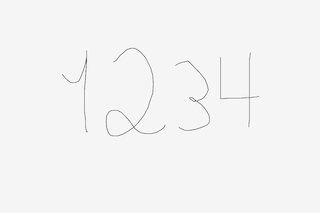
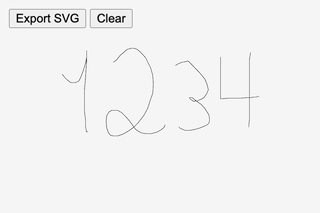
Updated examples to p5 1.11.9; made Drawing Recorder example mobile-friendly

Changed region(s): [[0.0312, 0.0282, 0.4062, 0.1408]]

diff --git a/examples/plotSvg_drawing_recorder/sketch.js b/examples/plotSvg_drawing_recorder/sketch.js
@@ -1,27 +1,35 @@
-// https://github.com/golanlevin/p5.plotSvg (v.0.1.x)
+// This sketch records a series of marks drawn by the user
+// and exports an SVG file when the button is pressed.
+// This sketch is mobile-friendly.
+//
+// Uses https://github.com/golanlevin/p5.plotSvg (v.0.1.x)
 // A Plotter-Oriented SVG Exporter for p5.js
 // Golan Levin, November 2024
-//
-// This sketch records a series of marks drawn by the user
-// and exports an SVG file when the 's' key is pressed.
-// 
-// Requires: https://cdn.jsdelivr.net/npm/p5.plotsvg@latest/lib/p5.plotSvg.js
-// See: https://github.com/golanlevin/p5.plotSvg
 
 p5.disableFriendlyErrors = true; 
+let exportSvgButton;
+let clearButton;
 let bDoExportSvg = false; 
-
 let marks = [];
 let currentMark = []; 
 
 function setup() {
-  // Postcard size: 6"x4" at 96 dpi
-  createCanvas(576, 384);
+  createCanvas(375, 500); // phone-safe size
+  exportSvgButton = createButton('Export SVG');
+  exportSvgButton.position(10, 10);
+  exportSvgButton.mousePressed(() => bDoExportSvg = true);
+  clearButton = createButton('Clear');
+  clearButton.position(100, 10);
+  clearButton.mousePressed(() => {
+    marks = [];
+    currentMark = [];
+  });
 }
 
+//-------------------------------------
 function keyPressed(){
   if (key == 's'){
-    // Initiate SVG exporting
+    // Another way to initiate SVG exporting
     bDoExportSvg = true; 
   } else if (key == ' '){
     // Clear recordings with spacebar
@@ -30,6 +38,7 @@ function keyPressed(){
   }
 }
 
+//-------------------------------------
 function mousePressed(){
   currentMark = [];
   currentMark.push(createVector(mouseX, mouseY)); 
@@ -42,7 +51,26 @@ function mouseReleased(){
     marks.push(currentMark); 
   }
 }
+function touchStarted(event) {
+  if (event.target.tagName === 'CANVAS') {
+    mousePressed();
+    return false;
+  }
+}
+function touchMoved(event) {
+  if (event.target.tagName === 'CANVAS') {
+    mouseDragged();
+    return false;
+  }
+}
+function touchEnded(event) {
+  if (event.target.tagName === 'CANVAS') {
+    mouseReleased();
+    return false;
+  }
+}
 
+//-------------------------------------
 function draw(){
   background(245); 
   strokeWeight(1);
@@ -50,8 +78,8 @@ function draw(){
   noFill();
   
   if (bDoExportSvg){
-    // Begin exporting, if requested
-    beginRecordSVG(this, "plotSvg_drawing_recorder.svg");
+    let svgFilename = "plotSvg_recording_" + frameCount; 
+    beginRecordSVG(this, svgFilename + ".svg");
   }
 
   // Draw each of the stored marks
@@ -69,7 +97,6 @@ function draw(){
   }
   endShape(); 
 
-  
   if (bDoExportSvg){
     // End exporting, if doing so
     endRecordSVG();

diff --git a/examples/plotSvg_drawing_recorder/index.html b/examples/plotSvg_drawing_recorder/index.html
@@ -1,17 +1,32 @@
 <!DOCTYPE html>
 <html lang="en">
-  <head>
-    <meta charset="utf-8" />
-    <title>p5.plotSvg Drawing Recorder Example</title>
-    <meta name="description" content="p5.plotSvg Drawing Recorder Example" />
-    <script src="https://cdnjs.cloudflare.com/ajax/libs/p5.js/1.11.8/p5.js" type="text/javascript"></script>
-    <script src="../../lib/p5.plotSvg.js" type="text/javascript"></script>
-    <style> body {padding: 0; margin: 0;} canvas {vertical-align: top;} </style>
-  </head>
-  <body>
-    <main>
-    </main>
-    <script src="sketch.js" type="text/javascript"></script>
-    <p>Draw some marks. Press 's' to save SVG.</p>
-  </body>
+<head>
+  <meta charset="utf-8" />
+  <meta name="viewport" content="width=device-width, initial-scale=1.0, user-scalable=no, maximum-scale=1.0">
+
+  <script src="https://cdn.jsdelivr.net/npm/p5@1.11.9/lib/p5.js"></script>
+  <script src="../../lib/p5.plotSvg.js" type="text/javascript"></script>
+  <link rel="stylesheet" type="text/css" href="style.css">
+
+  <style> 
+    html, body {
+      margin: 0;
+      padding: 0;
+      overflow: hidden; /* Prevent scrolling */
+      touch-action: none; /* Prevent touch scrolling */
+      -webkit-user-select: none; /* Prevent selection on iOS */
+      -ms-user-select: none; /* Prevent selection on IE */
+      user-select: none; /* Prevent selection on other browsers */
+    }
+    canvas {
+      display: block;
+      touch-action: none; /* Prevent default gestures on canvas */
+    }
+  </style>
+</head>
+
+<body class="prevent-select">
+  <main></main>
+  <script src="sketch.js"></script>
+</body>
 </html>

diff --git a/examples/plotSvg_hello_animating/index.html b/examples/plotSvg_hello_animating/index.html
@@ -4,7 +4,7 @@
     <meta charset="utf-8" />
     <title>p5.plotSvg Hello Animating Example</title>
     <meta name="description" content="p5.plotSvg Hello Animating Example" />
-    <script src="https://cdnjs.cloudflare.com/ajax/libs/p5.js/1.11.8/p5.js" type="text/javascript"></script>
+    <script src="https://cdnjs.cloudflare.com/ajax/libs/p5.js/1.11.9/p5.js" type="text/javascript"></script>
     <script src="../../lib/p5.plotSvg.js" type="text/javascript"></script>
     <style> body {padding: 0; margin: 0;} canvas {vertical-align: top;} </style>
   </head>

diff --git a/examples/plotSvg_face_flipbook/index.html b/examples/plotSvg_face_flipbook/index.html
@@ -4,7 +4,7 @@
     <meta charset="utf-8" />
     <title>p5.plotSvg Drawing Recorder Example</title>
     <meta name="description" content="p5.plotSvg Face Flipbook Example" />
-    <script src="https://cdnjs.cloudflare.com/ajax/libs/p5.js/1.11.8/p5.js" type="text/javascript"></script>
+    <script src="https://cdnjs.cloudflare.com/ajax/libs/p5.js/1.11.9/p5.js" type="text/javascript"></script>
     <script src="../../lib/p5.plotSvg.js" type="text/javascript"></script>
     <style> body {padding: 0; margin: 0;} canvas {vertical-align: top;} </style>
   </head>

diff --git a/examples/plotSvg_generative/index.html b/examples/plotSvg_generative/index.html
@@ -4,7 +4,7 @@
     <meta charset="utf-8" />
     <title>p5.plotSvg Generative Art Example</title>
     <meta name="description" content="p5.plotSvg Generative Art Example" />
-    <script src="https://cdnjs.cloudflare.com/ajax/libs/p5.js/1.11.8/p5.js" type="text/javascript"></script>
+    <script src="https://cdnjs.cloudflare.com/ajax/libs/p5.js/1.11.9/p5.js" type="text/javascript"></script>
     <script src="../../lib/p5.plotSvg.js" type="text/javascript"></script>
     <style> body {padding: 0; margin: 0;} canvas {vertical-align: top;} </style>
   </head>

diff --git a/examples/plotSvg_hatched_shapes/index.html b/examples/plotSvg_hatched_shapes/index.html
@@ -4,7 +4,7 @@
     <meta charset="utf-8" />
     <title>p5.plotSvg Hatched Shapes Example</title>
     <meta name="description" content="p5.plotSvg Hatched Shapes Example" />
-    <script src="https://cdnjs.cloudflare.com/ajax/libs/p5.js/1.11.8/p5.js" type="text/javascript"></script>
+    <script src="https://cdnjs.cloudflare.com/ajax/libs/p5.js/1.11.9/p5.js" type="text/javascript"></script>
     <script src="../../lib/p5.plotSvg.js" type="text/javascript"></script>
     <style> body {padding: 0; margin: 0;} canvas {vertical-align: top;} </style>
   </head>

diff --git a/examples/plotSvg_particle_paths/index.html b/examples/plotSvg_particle_paths/index.html
@@ -4,7 +4,7 @@
     <meta charset="utf-8" />
     <title>p5.plotSvg Particle Paths Example</title>
     <meta name="description" content="p5.plotSvg Particle Paths Example" />
-    <script src="https://cdnjs.cloudflare.com/ajax/libs/p5.js/1.11.8/p5.js" type="text/javascript"></script>
+    <script src="https://cdnjs.cloudflare.com/ajax/libs/p5.js/1.11.9/p5.js" type="text/javascript"></script>
     <script src="../../lib/p5.plotSvg.js" type="text/javascript"></script>
     <style> body {padding: 0; margin: 0;} canvas {vertical-align: top;} </style>
   </head>

diff --git a/examples/plotSvg_instancemode/index.html b/examples/plotSvg_instancemode/index.html
@@ -4,7 +4,7 @@
     <meta charset="utf-8" />
     <title>p5.plotSvg Instance Mode Example</title>
     <meta name="description" content="p5.plotSvg Instance Mode Example" />
-    <script src="https://cdnjs.cloudflare.com/ajax/libs/p5.js/1.11.8/p5.js" type="text/javascript"></script>
+    <script src="https://cdnjs.cloudflare.com/ajax/libs/p5.js/1.11.9/p5.js" type="text/javascript"></script>
     <script src="../../lib/p5.plotSvg.js" type="text/javascript"></script>
     <style> body {padding: 0; margin: 0;} canvas {vertical-align: top;} </style>
   </head>

diff --git a/examples/plotSvg_hello_static/index.html b/examples/plotSvg_hello_static/index.html
@@ -4,7 +4,7 @@
     <meta charset="utf-8" />
     <title>p5.plotSvg Hello Static Example</title>
     <meta name="description" content="p5.plotSvg Hello Static Example" />
-    <script src="https://cdnjs.cloudflare.com/ajax/libs/p5.js/1.11.8/p5.js" type="text/javascript"></script>
+    <script src="https://cdnjs.cloudflare.com/ajax/libs/p5.js/1.11.9/p5.js" type="text/javascript"></script>
     <script src="../../lib/p5.plotSvg.js" type="text/javascript"></script>
     <style> body {padding: 0; margin: 0;} canvas {vertical-align: top;} </style>
   </head>

diff --git a/examples/plotSvg_smorgasbord/index.html b/examples/plotSvg_smorgasbord/index.html
@@ -4,7 +4,7 @@
     <meta charset="utf-8" />
     <title>p5.plotSvg Smorgasbord Example</title>
     <meta name="description" content="p5.plotSvg Smorgasbord Example" />
-    <script src="https://cdnjs.cloudflare.com/ajax/libs/p5.js/1.11.8/p5.js" type="text/javascript"></script>
+    <script src="https://cdnjs.cloudflare.com/ajax/libs/p5.js/1.11.9/p5.js" type="text/javascript"></script>
     <script src="../../lib/p5.plotSvg.js" type="text/javascript"></script>
     <style> body {padding: 0; margin: 0;} canvas {vertical-align: top;} </style>
   </head>

diff --git a/examples/plotSvg_powerstroke_WIP/index.html b/examples/plotSvg_powerstroke_WIP/index.html
@@ -4,7 +4,7 @@
     <meta charset="utf-8" />
     <title>p5.plotSvg Inkscape PowerStroke Example</title>
     <meta name="description" content="p5.plotSvg Inkscape PowerStroke Example" />
-    <script src="https://cdnjs.cloudflare.com/ajax/libs/p5.js/1.11.8/p5.js" type="text/javascript"></script>
+    <script src="https://cdnjs.cloudflare.com/ajax/libs/p5.js/1.11.9/p5.js" type="text/javascript"></script>
 
     <!-- p5.plotSvg.js is REQUIRED for p5.PowerStroke.js -->
     <script src="../../lib/p5.plotSvg.js" type="text/javascript"></script>

diff --git a/examples/plotSvg_hershey_text/index.html b/examples/plotSvg_hershey_text/index.html
@@ -3,7 +3,7 @@
   <head>
     <meta charset="utf-8" />
     <title>p5.plotSvg Inlined Hershey Font Example</title>
-    <script src="https://cdn.jsdelivr.net/npm/p5@1.11.8/lib/p5.js"></script>
+    <script src="https://cdn.jsdelivr.net/npm/p5@1.11.9/lib/p5.js"></script>
     <script src="https://cdn.jsdelivr.net/npm/p5.plotsvg@latest/lib/p5.plotSvg.js"></script>
     <link rel="stylesheet" type="text/css" href="style.css">
   </head>
